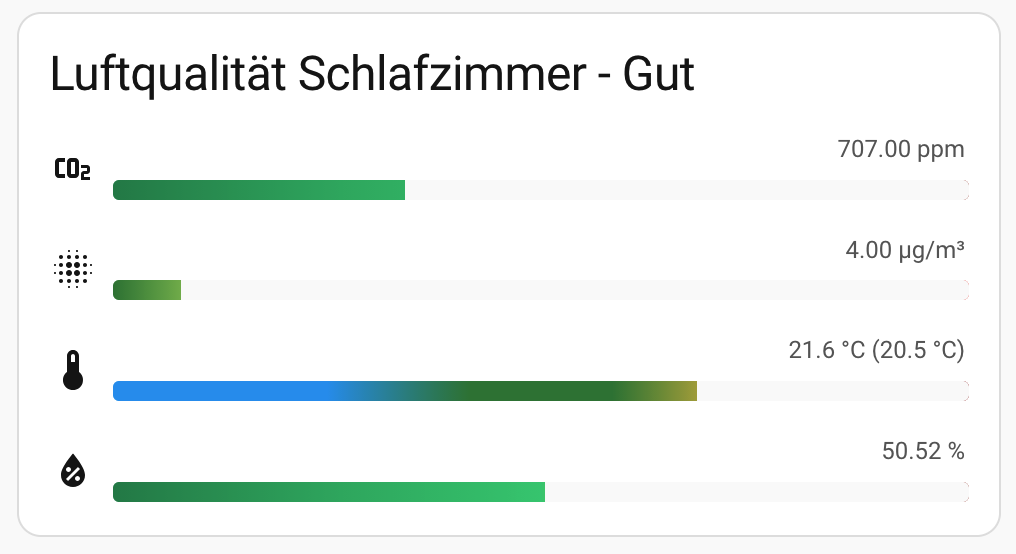
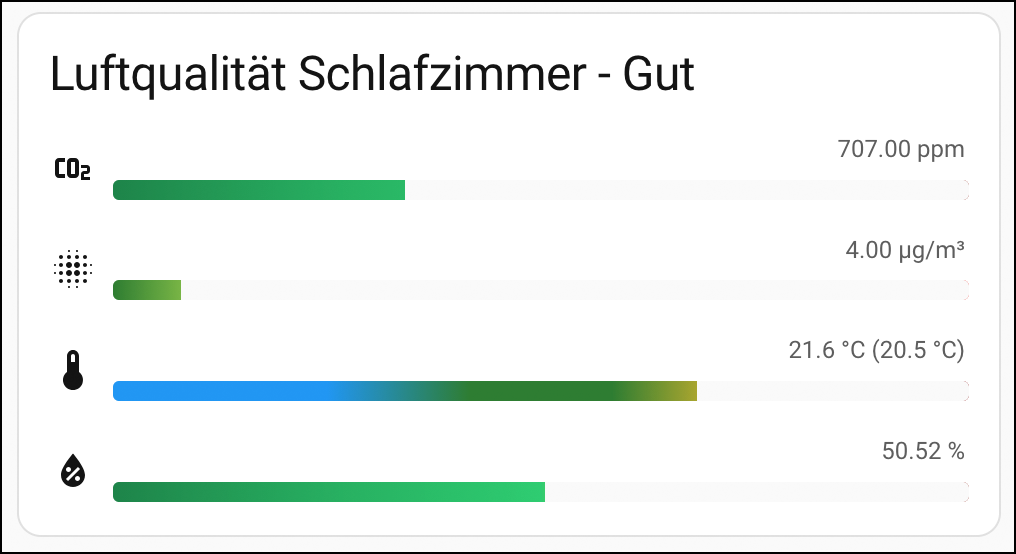
v0.6.2

Changed region(s): [[0.0, 0.9819, 1.0, 1.0], [0.0, 0.0, 1.0, 0.0307]]

diff --git a/README.md b/README.md
@@ -28,6 +28,10 @@ Die Karte wird bevorzugt über den visuellen Editor eingerichtet. Wähle dort di
 
 - **Anzahl der Spalten (`columns`)**
   - Legt fest, wie viele Sensor-Spalten angezeigt werden. Bleibt das Feld leer, wird die Anzahl automatisch an die Kartenbreite angepasst.
+
+![Karte mit 1 Spalte](./img/card-col1.png)
+![Karte mit 2 Spalten](./img/card-col2.png)
+
 - **Sensor-Entitäten**
   - Wähle für jeden gewünschten Wert die passende Home-Assistant-Entität aus:
     - CO₂ (`co2`)
